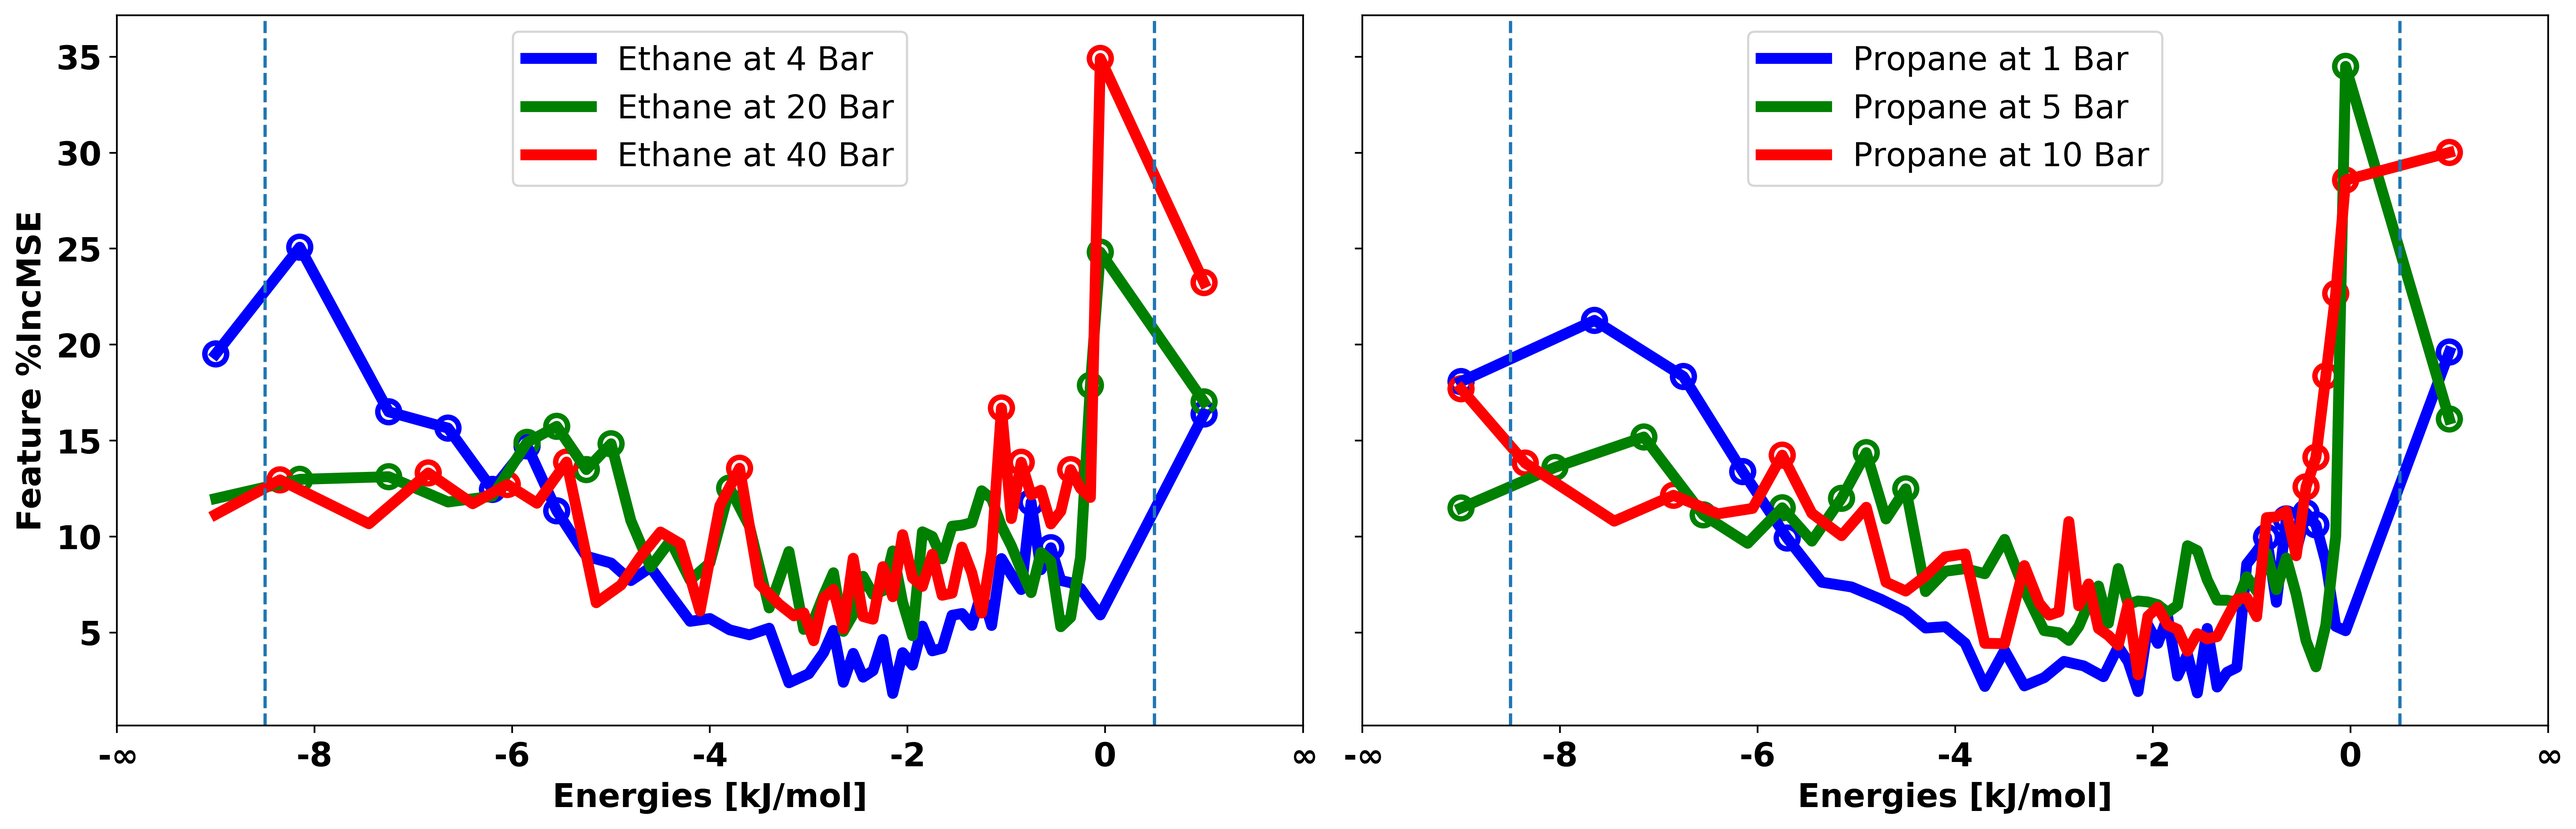
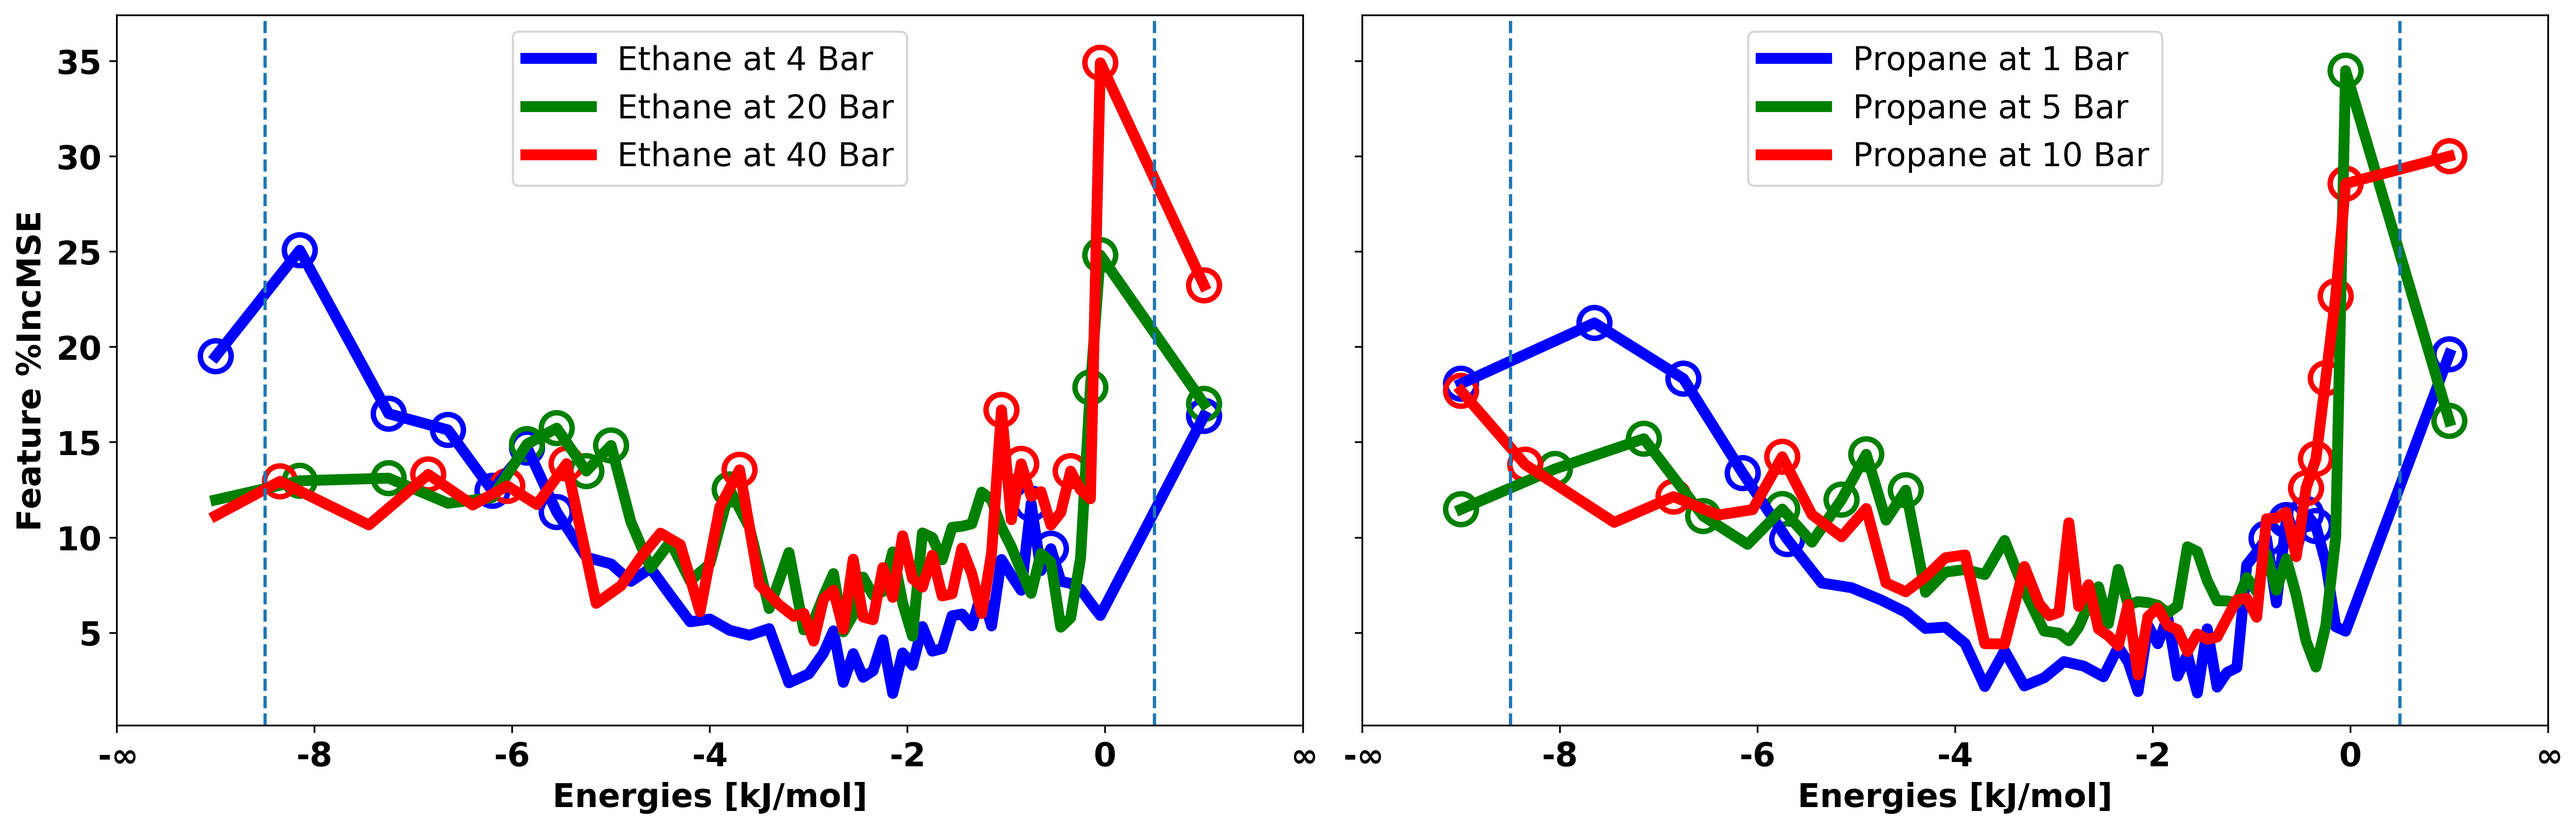
Figure 8

diff --git a/Manuscript-Figures/Figure 8/plot_IncMSE.py b/Manuscript-Figures/Figure 8/plot_IncMSE.py
@@ -8,6 +8,8 @@ import seaborn as sns
 import os
 
 fsize = 15
+edgesize = 200
+
 
 file_dir = os.getcwd() + '/'
 master_dir = file_dir + '/../../Results' # gets master directory
@@ -57,13 +59,13 @@ ax.plot(Ethane_40Bar['midpoints'], Ethane_40Bar['%IncMSE'],
 # highlight circles, top 3
 ax.scatter(Ethane_4Bar.sort_values(by = ['%IncMSE'], ascending=False)[0:highlight]['midpoints'], 
         Ethane_4Bar.sort_values(by = ['%IncMSE'], ascending=False)[0:highlight]['%IncMSE'], 
-        edgecolors = 'blue', s = 100, facecolors='none', linewidth = linewidth/2)
+        edgecolors = 'blue', s = edgesize, facecolors='none', linewidth = linewidth/2)
 ax.scatter(Ethane_20Bar.sort_values(by = ['%IncMSE'], ascending=False)[0:highlight]['midpoints'], 
         Ethane_20Bar.sort_values(by = ['%IncMSE'], ascending=False)[0:highlight]['%IncMSE'], 
-        edgecolors = 'green', s = 100, facecolors='none', linewidth = linewidth/2)
+        edgecolors = 'green', s = edgesize, facecolors='none', linewidth = linewidth/2)
 ax.scatter(Ethane_40Bar.sort_values(by = ['%IncMSE'], ascending=False)[0:highlight]['midpoints'], 
         Ethane_40Bar.sort_values(by = ['%IncMSE'], ascending=False)[0:highlight]['%IncMSE'], 
-        edgecolors = 'red', s = 100, facecolors='none', linewidth = linewidth/2)
+        edgecolors = 'red', s = edgesize, facecolors='none', linewidth = linewidth/2)
 ax.axvline(x = -8.5, linestyle = '--')
 ax.axvline(x = 0.5, linestyle = '--')
 
@@ -99,13 +101,13 @@ axes.plot(Propane_10Bar['midpoints'], Propane_10Bar['%IncMSE'],
 # highlight circles
 axes.scatter(Propane_1Bar.sort_values(by = ['%IncMSE'], ascending=False)[0:highlight]['midpoints'], 
         Propane_1Bar.sort_values(by = ['%IncMSE'], ascending=False)[0:highlight]['%IncMSE'], 
-        edgecolors = 'blue', s = 100, facecolors='none', linewidth = linewidth/2)
+        edgecolors = 'blue', s = edgesize, facecolors='none', linewidth = linewidth/2)
 axes.scatter(Propane_5Bar.sort_values(by = ['%IncMSE'], ascending=False)[0:highlight]['midpoints'], 
         Propane_5Bar.sort_values(by = ['%IncMSE'], ascending=False)[0:highlight]['%IncMSE'], 
-        edgecolors = 'green', s = 100, facecolors='none', linewidth = linewidth/2)
+        edgecolors = 'green', s = edgesize, facecolors='none', linewidth = linewidth/2)
 axes.scatter(Propane_10Bar.sort_values(by = ['%IncMSE'], ascending=False)[0:highlight]['midpoints'], 
         Propane_10Bar.sort_values(by = ['%IncMSE'], ascending=False)[0:highlight]['%IncMSE'], 
-        edgecolors = 'red', s = 100, facecolors='none', linewidth = linewidth/2)
+        edgecolors = 'red', s = edgesize, facecolors='none', linewidth = linewidth/2)
 
 axes.axvline(x = -8.5, linestyle = '--')
 axes.axvline(x = 0.5, linestyle = '--')
